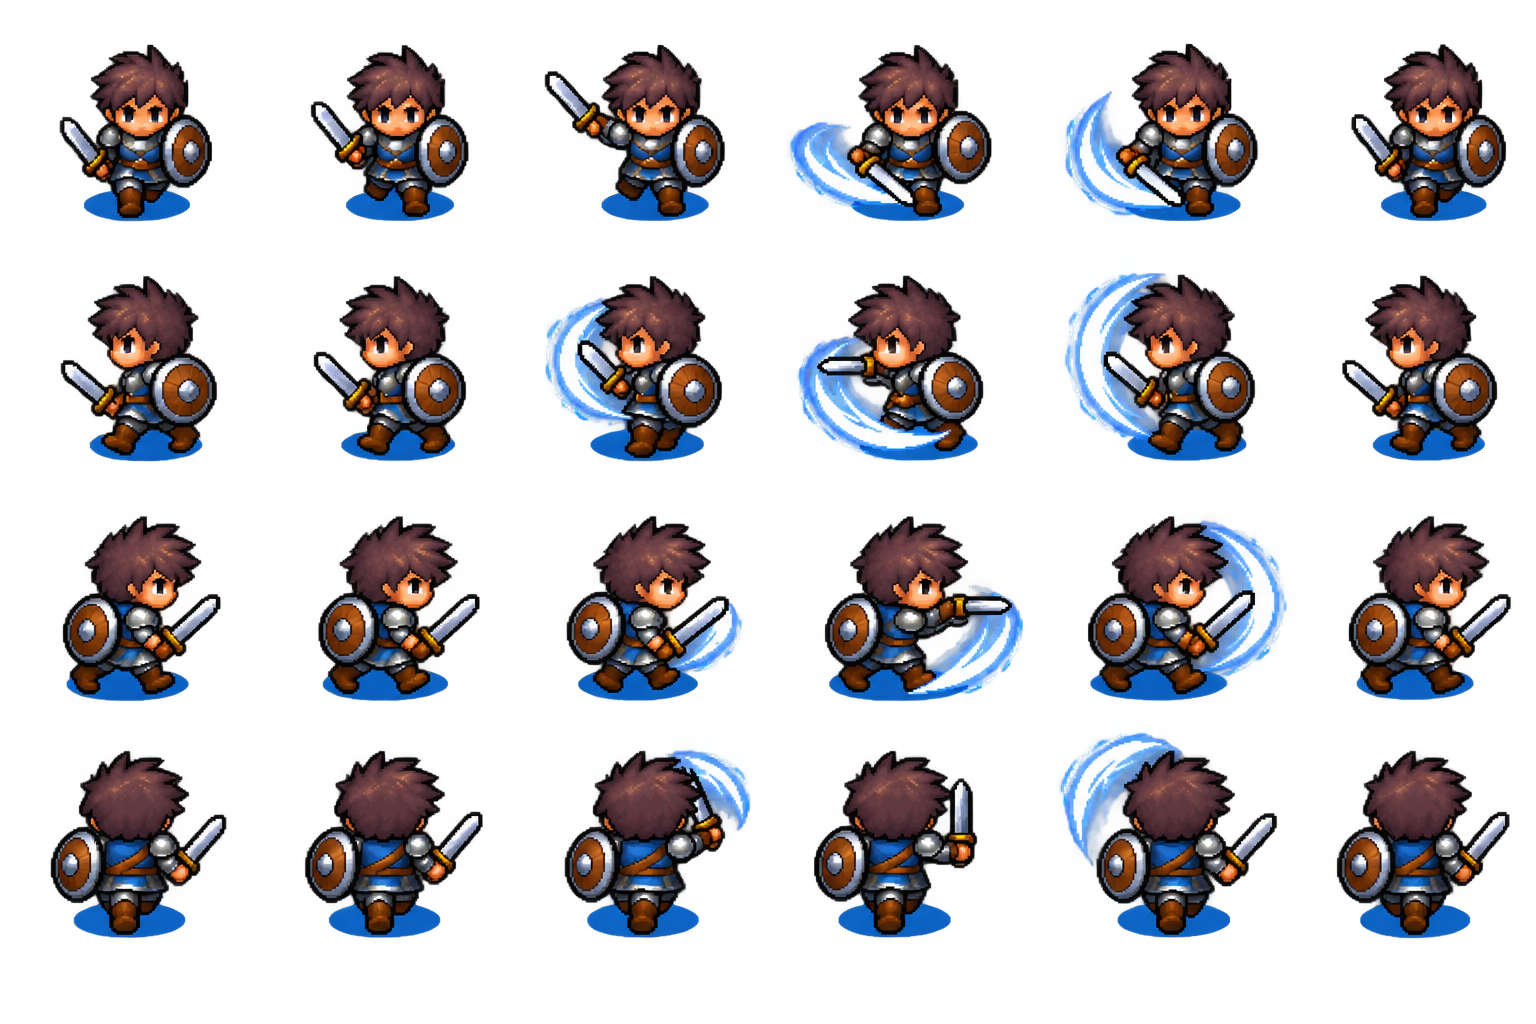
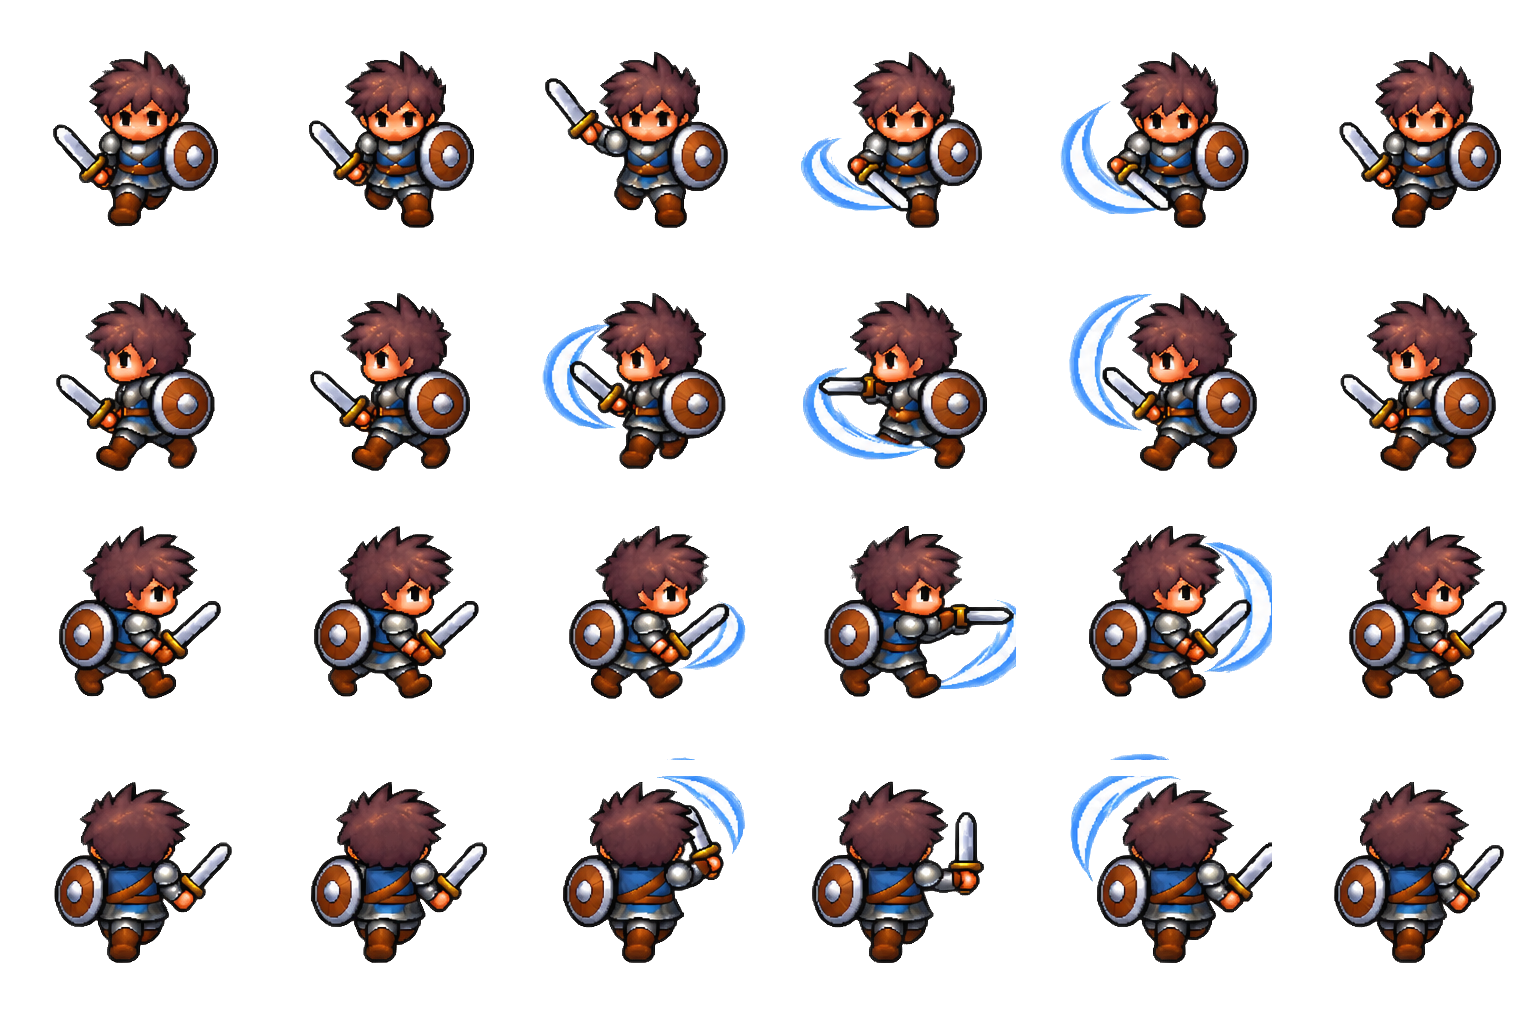
feat: refine warrior sword and shield animations

diff --git a/src/game/player/Player.ts b/src/game/player/Player.ts
@@ -58,6 +58,7 @@ export class Player extends Phaser.Physics.Arcade.Sprite {
   private warriorFacing: WarriorFacing = 'down';
   private warriorMoving = false;
   private warriorAttacking = false;
+  private warriorBlockingFacing: WarriorFacing | null = null;
   private archerFacing: ArcherFacing = 'down';
   private archerMoving = false;
   private archerAttacking = false;
@@ -401,6 +402,7 @@ export class Player extends Phaser.Physics.Arcade.Sprite {
 
     this.dead = true;
     this.blocking = false;
+    this.warriorBlockingFacing = null;
     this.dashing = false;
     this.magicProtectionActive = false;
     this.setVelocity(0, 0);
@@ -428,9 +430,14 @@ export class Player extends Phaser.Physics.Arcade.Sprite {
     }
 
     if (this.blocking) {
-      this.play(getWarriorBlockAnimationKey(this.warriorFacing), true);
+      if (this.warriorBlockingFacing !== this.warriorFacing) {
+        this.warriorBlockingFacing = this.warriorFacing;
+        this.play(getWarriorBlockAnimationKey(this.warriorFacing));
+      }
       return;
     }
+
+    this.warriorBlockingFacing = null;
 
     if (this.warriorMoving) {
       this.play(getWarriorWalkAnimationKey(this.warriorFacing), true);

diff --git a/src/game/player/warriorAnimations.ts b/src/game/player/warriorAnimations.ts
@@ -32,7 +32,14 @@ const ATTACK_FRAME_RANGES: Readonly<Record<WarriorFacing, readonly [number, numb
   up: [18, 23],
 };
 
-const BLOCK_FRAME_RANGES = WALK_FRAME_RANGES;
+const BLOCK_FRAME_RANGES: Readonly<
+  Record<WarriorFacing, readonly [number, number]>
+> = {
+  right: [12, 14],
+  left: [6, 8],
+  down: [0, 2],
+  up: [18, 20],
+};
 
 export function getWarriorWalkAnimationKey(facing: WarriorFacing): string {
   return `warrior-shield-walk-${facing}`;
@@ -122,7 +129,7 @@ export function createWarriorAnimations(scene: Phaser.Scene): void {
           end,
         }),
         frameRate: 8,
-        repeat: -1,
+        repeat: 0,
       });
     }
   }

diff --git a/public/assets/characters/warrior/ASSET_NOTES.md b/public/assets/characters/warrior/ASSET_NOTES.md
@@ -1,14 +1,30 @@
 # Guerreiro com espada e escudo
 
 Sprites direcionais refeitos para manter a mesma linguagem visual e proporção do
-arqueiro e do goblin do projeto. O escudo permanece equipado em todos os estados.
+arqueiro e do goblin do projeto. Existe exatamente uma espada na mão direita e
+um escudo na mão esquerda em todos os estados e quadros.
 
-- `Warrior_Shield_Walk.png`: caminhada, 6 quadros por direção
-- `Warrior_Shield_Attack.png`: ataque com espada, 6 quadros por direção
-- `Warrior_Shield_Block.png`: bloqueio com escudo, 6 quadros por direção
+- `Warrior_Shield_Walk.png`: caminhada com os dois itens empunhados, 6 quadros
+  por direção
+- `Warrior_Shield_Attack.png`: ataque somente com a espada e escudo mantido na
+  guarda, 6 quadros por direção
+- `Warrior_Shield_Block.png`: o mesmo e único escudo sai da guarda lateral,
+  avança para a frente, bloqueia e retorna; a espada permanece na outra mão,
+  6 quadros por direção
+
+Na direção para cima, a frente do personagem corresponde ao topo da tela. Por
+isso, durante o bloqueio, o escudo avança acima da cabeça em vez de aparecer
+nas costas; a espada continua empunhada na mão direita.
+
+Na caminhada para a direita, a espada fica à frente do personagem, no lado
+direito da imagem, enquanto o escudo permanece na mão esquerda, visível no lado
+oposto do corpo.
 
 Cada arquivo possui grade `6 x 4`, células de `256 x 256` e linhas na ordem:
 baixo, esquerda, direita e cima.
+
+Os três arquivos usam fundo RGBA transparente e margem segura por célula para
+evitar cortes e vazamento visual entre frames.
 
 Os sprites foram gerados com ImageGen usando como referência o guerreiro nível 3
 da CraftPix e o arqueiro existente. Os arquivos originais e sua licença continuam
